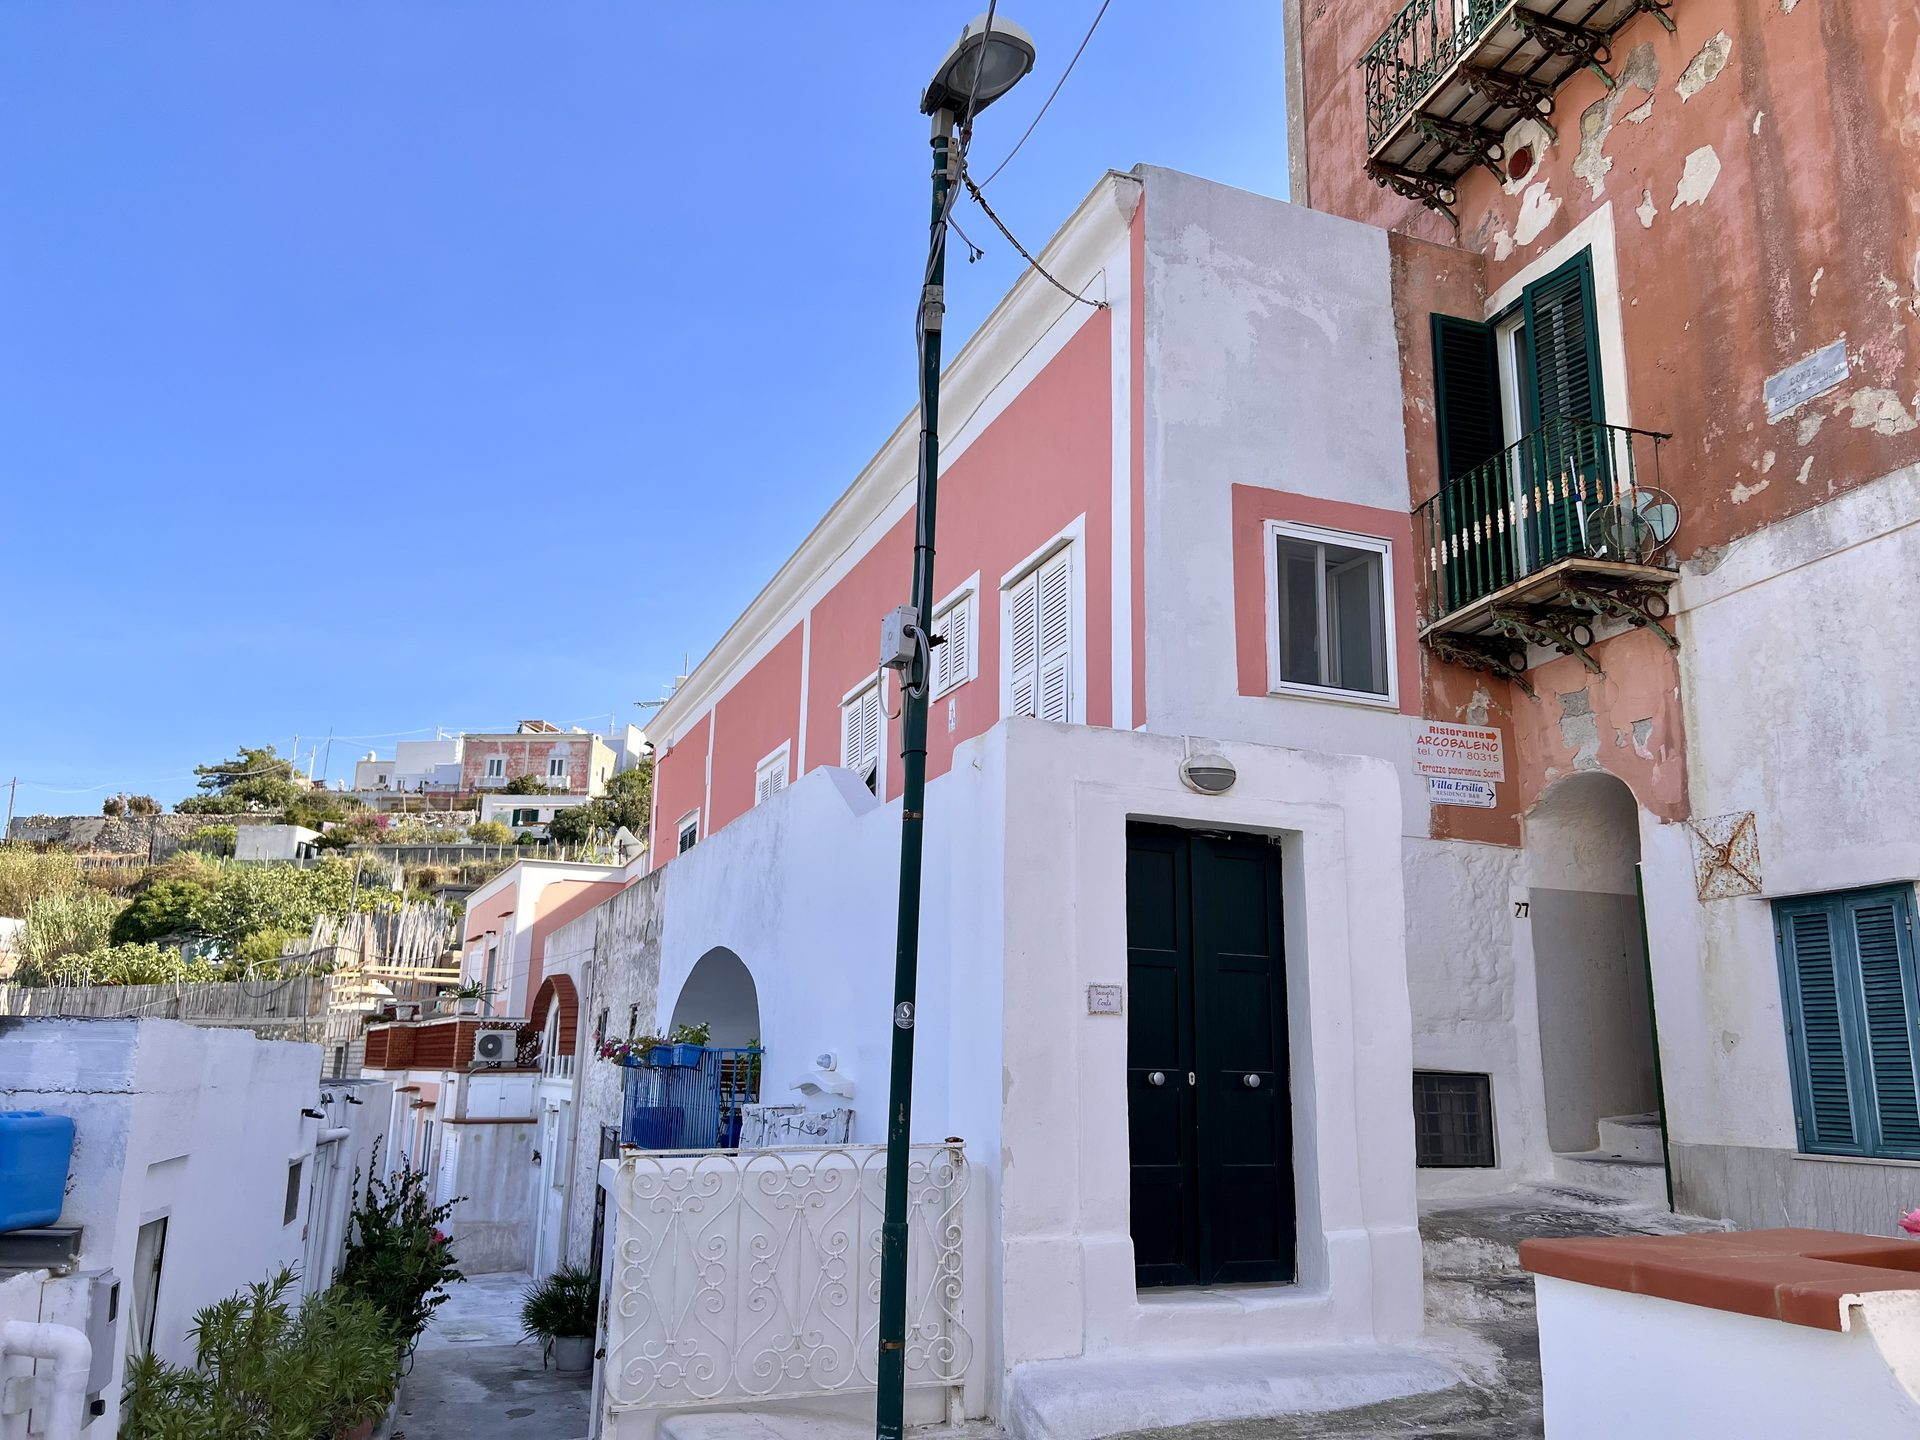
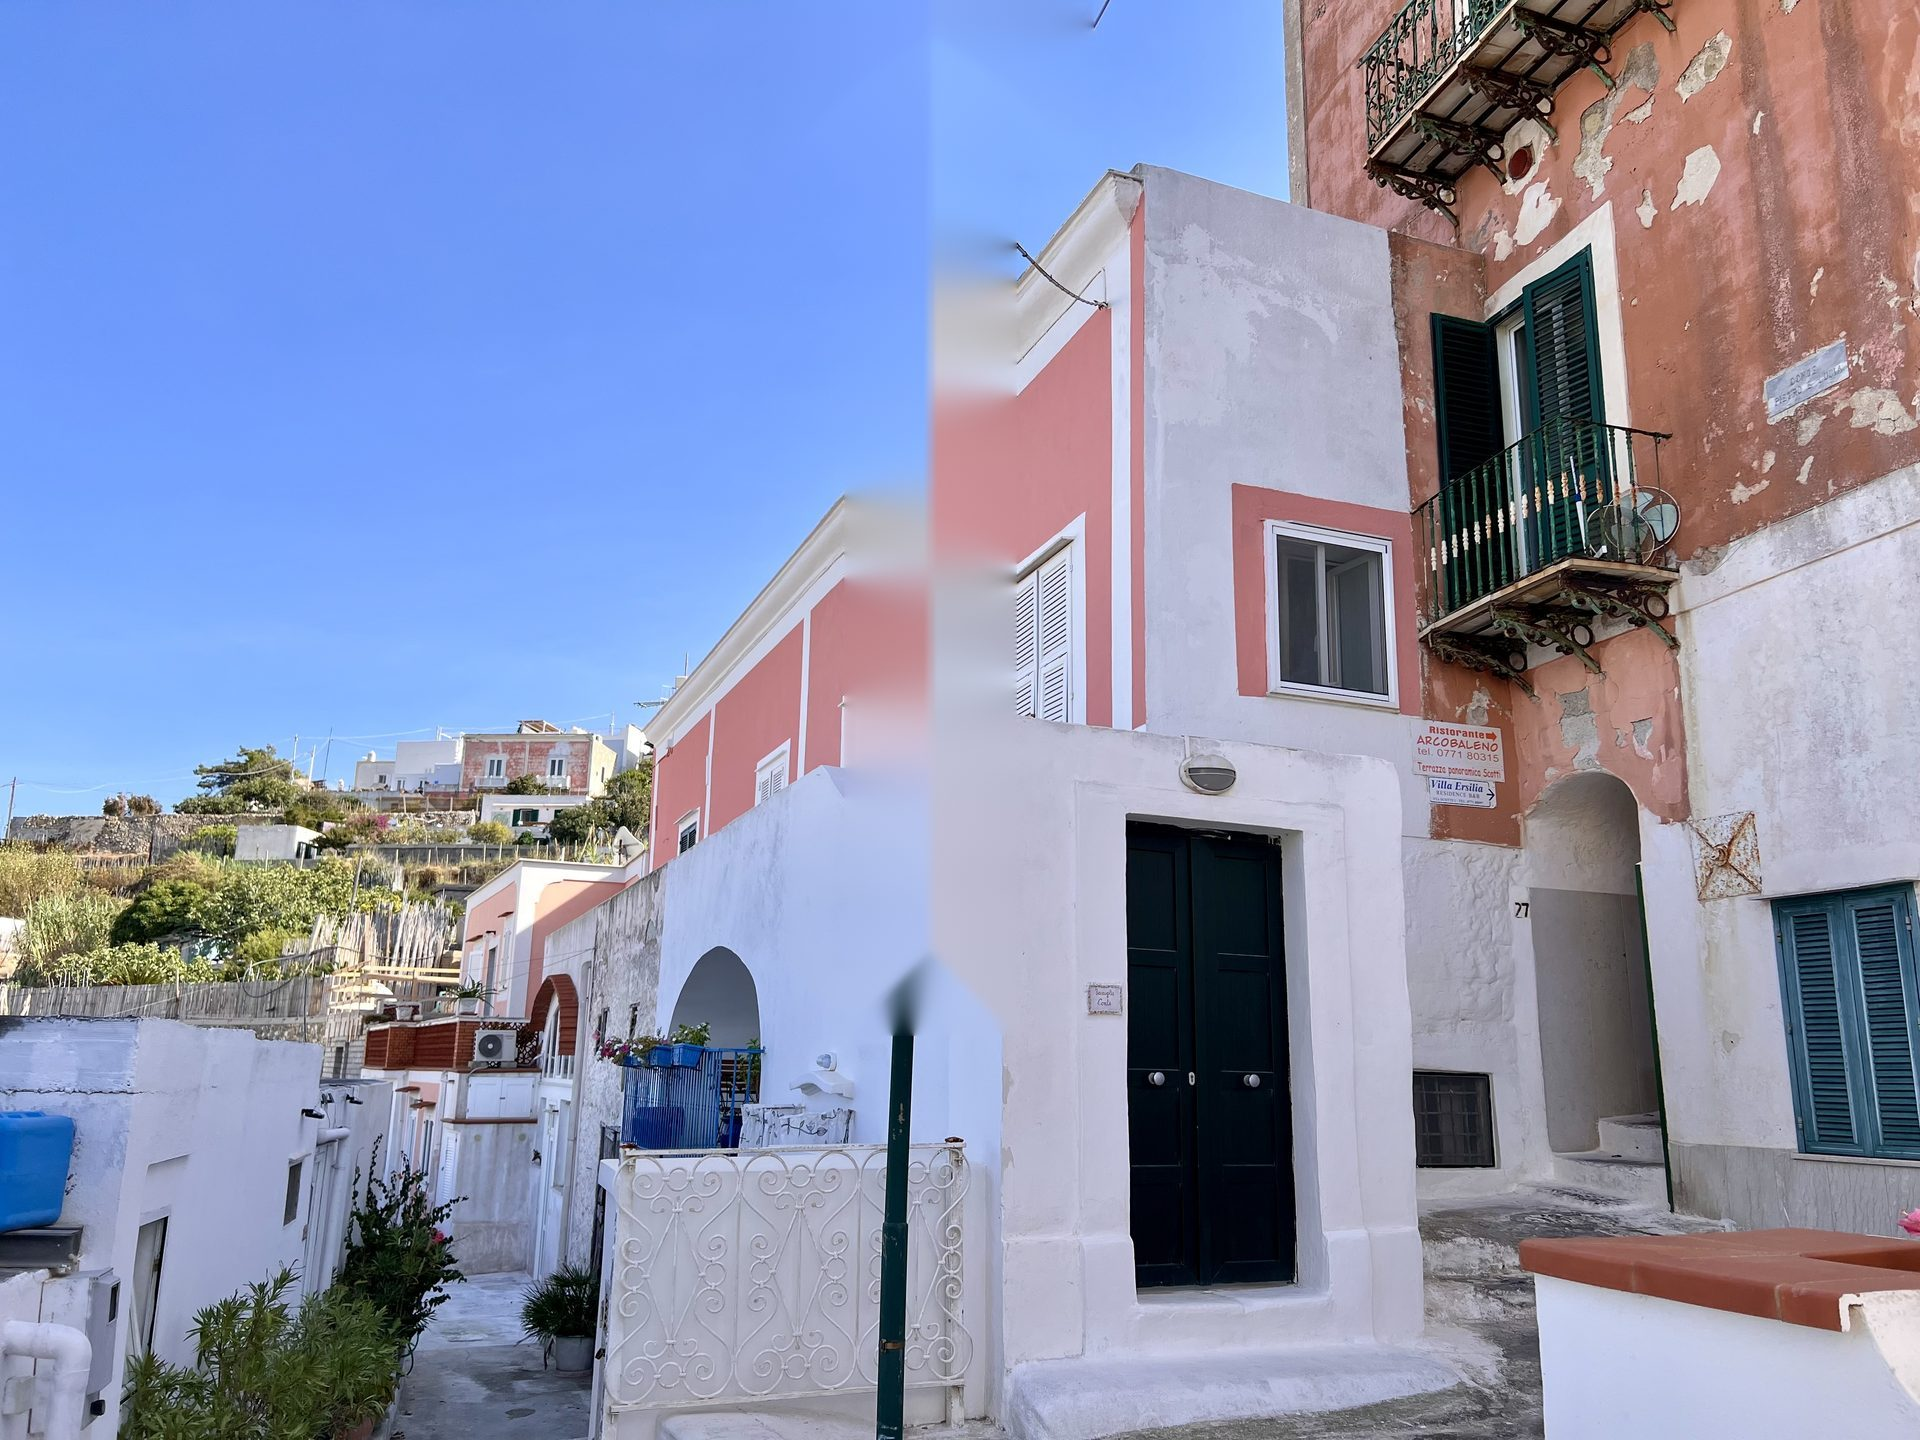
🌿 Gallery aggiornata + layout contatti mattonella + rimozione lampione

Changed region(s): [[0.4375, 0.0, 0.5625, 0.7188]]

diff --git a/index.html b/index.html
@@ -1008,7 +1008,7 @@
                 <div class="gallery-item-overlay"><i class="fas fa-expand"></i></div>
             </div>
             <div class="gallery-item g3 fade-in" onclick="openLightbox(2)">
-                <img src="images/IMG_2927.jpeg" alt="Terrazzo con vista borgo">
+                <img src="images/IMG_3007.jpeg" alt="Dependance e giardino mediterraneo">
                 <div class="gallery-item-overlay"><i class="fas fa-expand"></i></div>
             </div>
             <div class="gallery-item g4 fade-in" onclick="openLightbox(3)">
@@ -1163,27 +1163,38 @@
             <h2 class="section-title">Come <em>raggiungerci</em></h2>
             <div class="divider"></div>
         </div>
-        <div class="contact-grid fade-in">
-            <div class="contact-card">
-                <div class="contact-card-icon"><i class="fas fa-map-marker-alt"></i></div>
-                <h3>Indirizzo</h3>
-                <p>Via Scotti</p>
-                <p>Isola di Ponza</p>
-                <p>04027 Latina, Italia</p>
-                <p style="font-size:0.78rem;color:var(--text-light);margin-top:12px;letter-spacing:0.03em;">CIN IT059018C1S28D66AH</p>
+        <div style="display:grid;grid-template-columns:1fr 1fr;gap:24px;align-items:stretch;" class="fade-in">
+            <!-- Foto sinistra -->
+            <div style="border-radius:2px;overflow:hidden;min-height:400px;">
+                <img src="images/mattonella.jpeg" alt="B&B La Maison Fiorita — insegna artigianale" style="width:100%;height:100%;object-fit:cover;display:block;">
             </div>
-            <div class="contact-card">
-                <div class="contact-card-icon"><i class="fas fa-phone-alt"></i></div>
-                <h3>Telefono & WhatsApp</h3>
-                <p>+39 339 856 0980 (WhatsApp)</p>
-                <a href="https://wa.me/393398560980" class="btn btn-whatsapp" style="margin-top:16px;font-size:0.8rem;padding:12px 24px;" target="_blank">
-                    <i class="fab fa-whatsapp"></i> Scrivici ora
-                </a>
-            </div>
-            <div class="contact-card" style="grid-column: span 2; padding: 0; overflow: hidden; border-radius: 2px;">
-                <img src="images/mattonella.jpeg" alt="B&B La Maison Fiorita — insegna artigianale" style="width:100%;height:320px;object-fit:cover;display:block;">
+            <!-- 2 card destra -->
+            <div style="display:flex;flex-direction:column;gap:24px;">
+                <div class="contact-card" style="flex:1;">
+                    <div class="contact-card-icon"><i class="fas fa-map-marker-alt"></i></div>
+                    <h3>Indirizzo</h3>
+                    <p>Via Scotti</p>
+                    <p>Isola di Ponza</p>
+                    <p>04027 Latina, Italia</p>
+                    <p style="font-size:0.78rem;color:var(--text-light);margin-top:12px;letter-spacing:0.03em;">CIN IT059018C1S28D66AH</p>
+                </div>
+                <div class="contact-card" style="flex:1;">
+                    <div class="contact-card-icon"><i class="fas fa-phone-alt"></i></div>
+                    <h3>WhatsApp</h3>
+                    <p>+39 339 856 0980</p>
+                    <a href="https://wa.me/393398560980" class="btn btn-whatsapp" style="margin-top:16px;font-size:0.8rem;padding:12px 24px;" target="_blank">
+                        <i class="fab fa-whatsapp"></i> Scrivici ora
+                    </a>
+                </div>
             </div>
         </div>
+        <style>
+        @media (max-width: 768px) {
+            #contact .fade-in[style*="grid-template-columns"] {
+                grid-template-columns: 1fr !important;
+            }
+        }
+        </style>
     </div>
 </section>
 
@@ -1271,20 +1282,19 @@
     const galleryImages = [
         { src: 'images/facade_rosa.jpeg', alt: 'Facciata rosa La Maison Fiorita' },
         { src: 'images/IMG_2922.jpeg', alt: 'Camera da letto vista mare' },
-        { src: 'images/IMG_2927.jpeg', alt: 'Terrazzo con vista borgo' },
+        { src: 'images/IMG_3007.jpeg', alt: 'Dependance e giardino mediterraneo' },
         { src: 'images/IMG_2928.jpeg', alt: 'Bagno azzurro' },
         { src: 'images/IMG_2991.jpeg', alt: 'Vista giardino dall\'alto' },
-        { src: 'images/0b819660-1e31-412a-9dad-09db20475e39.jpeg', alt: 'Giardino con bouganville' },
+        { src: 'images/0b819660-1e31-412a-9dad-09db20475e39.jpeg', alt: 'Giardino con bouganville viola' },
         { src: 'images/IMG_2998.jpeg', alt: 'Porto di Ponza al tramonto' },
         { src: 'images/IMG_2568.jpeg', alt: 'Porto di Ponza' },
         { src: 'images/IMG_2944.jpeg', alt: 'Terrazza con vista porto' },
         { src: 'images/77a23539-6b22-4d2e-a239-c6efbd3e2c0e.jpeg', alt: 'Bouganville rossa' },
         { src: 'images/IMG_3105.jpeg', alt: 'Vicolo ponzese' },
         { src: 'images/IMG_2996.jpeg', alt: 'Vista tramonto' },
-        { src: 'images/IMG_2925.jpeg', alt: 'Camera singola' },
-        { src: 'images/IMG_2930.jpeg', alt: 'Studio interno' },
-        { src: 'images/IMG_2932.jpeg', alt: 'Terrazza esterna' },
         { src: 'images/IMG_3002.jpeg', alt: 'Facciata rosa' },
+        { src: 'images/IMG_2927.jpeg', alt: 'Terrazzo vista borgo' },
+        { src: 'images/hero_alba.jpeg', alt: 'Alba sull\'isola di Ponza' },
     ];
 
     let currentIndex = 0;
